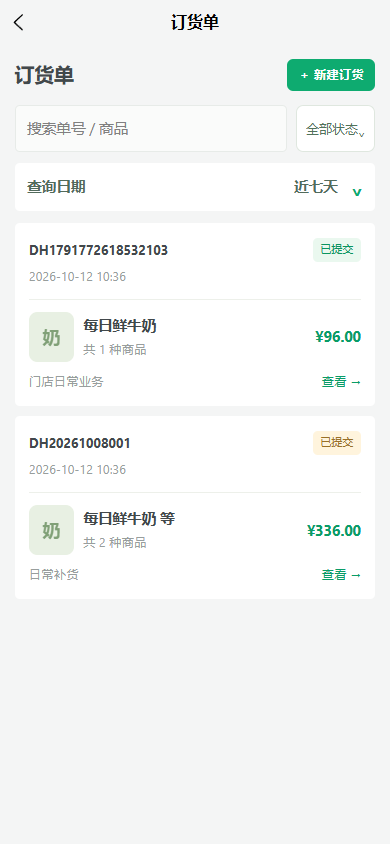
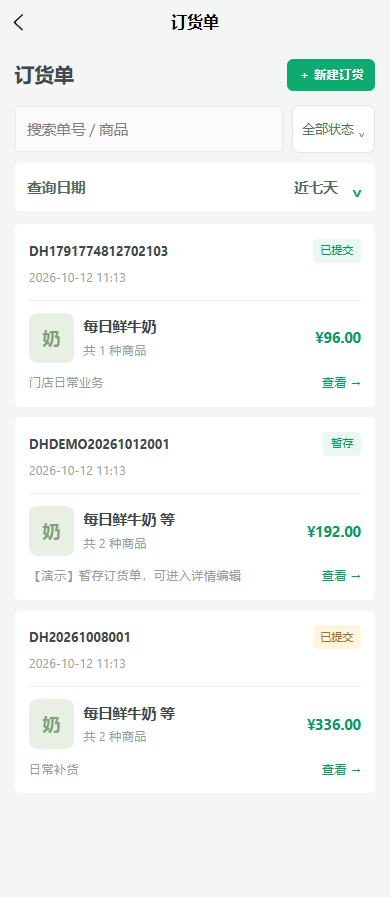
fix: make status filter clickable and seed an editable demo order

diff --git a/dist/build/mp-weixin/core/mock.js b/dist/build/mp-weixin/core/mock.js
@@ -1,1 +1,1 @@
-"use strict";const e=require("./validation.js"),s=require("./order-list.js"),t=e=>JSON.parse(JSON.stringify(e)),r="store001";exports.createMockTransport=function(n,i=Date.now){let a=n.get("demo-db-v1")||function(){const e=[{sku:"DD1001",name:"每日鲜牛奶",spec:"250ml × 12盒",unit:"箱",price:4800,stock:18,category:"乳品饮料",min:1,step:1,color:"mint",mark:"奶"},{sku:"DD1002",name:"原味酸奶",spec:"100g × 16杯",unit:"箱",price:3680,stock:12,category:"乳品饮料",min:1,step:1,color:"blue",mark:"酸"},{sku:"DD1003",name:"天然饮用水",spec:"550ml × 24瓶",unit:"箱",price:2400,stock:32,category:"乳品饮料",min:2,step:2,color:"blue",mark:"水"},{sku:"DD1004",name:"全麦吐司",spec:"400g / 袋",unit:"袋",price:890,stock:8,category:"烘焙零食",min:5,step:5,color:"sand",mark:"麦"},{sku:"DD1005",name:"海盐苏打饼干",spec:"200g / 盒",unit:"盒",price:650,stock:24,category:"烘焙零食",min:1,step:1,color:"sand",mark:"饼"},{sku:"DD1006",name:"柔韧抽纸",spec:"3层100抽 × 6包",unit:"提",price:1290,stock:16,category:"日用百货",min:1,step:1,color:"rose",mark:"纸"}],s=(s,t,r)=>({...e[s],quantity:t,...void 0!==r?{received:r,damaged:0}:{}}),t=(new Date).toISOString();return{seq:100,sessions:{},failures:0,lockedUntil:0,idempotency:{},products:e,orderTemplates:[{id:"TPL-DAILY",name:"日常补货模板",description:"门店常用商品，适合日常综合补货",storeIds:["S001"],skus:["DD1001","DD1002","DD1003","DD1004","DD1005","DD1006"]},{id:"TPL-DRINK",name:"乳品饮料模板",description:"牛奶、酸奶及饮用水专项订货",storeIds:["S001"],skus:["DD1001","DD1002","DD1003"]},{id:"TPL-SNACK",name:"烘焙零食模板",description:"面包与零食集中补货",storeIds:["S001"],skus:["DD1004","DD1005"]}],orders:[{id:"DH20261008001",status:"SUBMITTED",storeId:"S001",version:1,createdAt:t,remark:"日常补货",lines:[s(0,4),s(2,6)],history:[{text:"门店提交订货",at:t}]}],receipts:[{id:"SH20261009001",sourceId:"DH20261007001",status:"PENDING",storeId:"S001",version:1,createdAt:t,remark:"华东配送中心 · 常温配送",lines:[s(0,5),s(2,8),s(4,12)],history:[{text:"配送中心已发货",at:t}]},{id:"SH20261008002",sourceId:"DH20261006002",status:"RECEIVED",storeId:"S001",version:2,createdAt:t,remark:"已完成收货，可申请退货",lines:[s(1,6,6),s(3,20,20),s(5,10,10)],history:[{text:"门店已确认收货",at:t}]}],differences:[],returns:[]}}();a.orderTemplates||(a.orderTemplates=[{id:"TPL-DAILY",name:"日常补货模板",description:"门店常用商品，适合日常综合补货",storeIds:["S001"],skus:["DD1001","DD1002","DD1003","DD1004","DD1005","DD1006"]},{id:"TPL-DRINK",name:"乳品饮料模板",description:"牛奶、酸奶及饮用水专项订货",storeIds:["S001"],skus:["DD1001","DD1002","DD1003"]},{id:"TPL-SNACK",name:"烘焙零食模板",description:"面包与零食集中补货",storeIds:["S001"],skus:["DD1004","DD1005"]}]);for(const e of a.orders)"DRAFT"!==e.status||e.templateId||(e.templateId="TPL-DAILY",e.templateName="日常补货模板");const u=()=>n.set("demo-db-v1",t(a)),o=e=>`${e}${i()}${++a.seq}`;function d(){const e=o("demo-access-"),s=o("demo-refresh-"),n={accessToken:e,refreshToken:s,expiresAt:i()+9e5,user:{id:"U001",name:"豆豆店长",storeId:"S001",storeName:"豆豆便利 · 万象城店",account:r,role:"门店店长"}};return a.sessions[s]={...n,refreshExpiresAt:i()+6048e5},u(),t(n)}function c(e,s){e.version++,e.history.push({text:s,at:new Date(i()).toISOString()})}function l(s,t){var r;const n=null==(r=a[s])?void 0:r.find(e=>e.id===t&&"S001"===e.storeId);return e.assert(n,"单据不存在",404),n}function D(e,s,t,r={}){return{id:o(e),storeId:"S001",version:1,status:"DRAFT",createdAt:new Date(i()).toISOString(),remark:t,lines:s,history:[{text:"创建草稿",at:new Date(i()).toISOString()}],...r}}function p(e,s,t){const r=e.lines.find(e=>e.sku===s),n=a.returns.filter(s=>s.sourceId===e.id&&s.id!==t&&!["CANCELLED","REJECTED","DRAFT"].includes(s.status)).flatMap(e=>e.lines).filter(e=>e.sku===s).reduce((e,s)=>e+s.quantity,0);return((null==r?void 0:r.received)||0)-n}function m(r,n,u){const[,o,d,m]=r.split("/"),f=s=>{const t=a.orderTemplates.find(e=>e.id===s);return e.assert(t,"订货模板不存在",404),e.assert(t.storeIds.includes("S001"),"当前门店不可使用此模板",403),t};if("GET"===n){if("order-templates"===o){const s=e=>({id:e.id,name:e.name,description:e.description,productCount:a.products.filter(s=>e.skus.includes(s.sku)).length});if(!d)return a.orderTemplates.filter(e=>e.storeIds.includes("S001")).map(s);const t=f(d);return"products"===m?a.products.filter(e=>t.skus.includes(e.sku)):(e.assert(!m,"接口不存在",404),s(t))}if("products"===o)return a.products;if("dashboard"===o)return{pending:a.receipts.filter(e=>"PENDING"===e.status).length,differences:a.differences.filter(e=>"OPEN"===e.status).length,orders:a.orders.filter(e=>["SUBMITTED","APPROVED"].includes(e.status)).length,returns:a.returns.filter(e=>!["COMPLETED","CANCELLED","REJECTED"].includes(e.status)).length};if(e.assert(["orders","receipts","differences","returns"].includes(o),"接口不存在",404),!d){const e=a[o].filter(e=>"S001"===e.storeId);return s.filterOrderDocuments(e,u,o).slice().reverse()}const r=t(l(o,d));return"receipts"===o&&"RECEIVED"===r.status&&r.lines.forEach(e=>{e.returnable=p(r,e.sku)}),r}if(e.assert("POST"===n,"不支持的请求方法",405),!d&&"orders"===o){e.assert("string"==typeof u.templateId&&u.templateId,"请选择订货模板");const s=f(u.templateId),t=void 0===u.arrivalDate?"":e.arrivalDateInput(u.arrivalDate,e.localDate(new Date(i())));e.linesInput(u.lines),e.note(u.remark||"");const r=D("DH",u.lines.map(t=>{const r=a.products.find(e=>e.sku===t.sku);return e.assert(r,"商品不存在"),e.assert(s.skus.includes(r.sku),"商品不属于所选订货模板"),e.assert(t.quantity>=r.min&&t.quantity%r.step===0,`${r.name}须按${r.step}${r.unit}订购，至少${r.min}${r.unit}`),{...r,quantity:t.quantity}}),u.remark||"",{templateId:s.id,templateName:s.name,arrivalDate:t});return a.orders.push(r),r}if(!d&&"returns"===o){e.linesInput(u.lines),e.note(u.remark,!0);const s=l("receipts",u.sourceId);e.assert("RECEIVED"===s.status,"仅已收货单可申请退货");const t=D("TH",u.lines.map(t=>{const r=s.lines.find(e=>e.sku===t.sku);return e.assert(r,"商品不属于来源单"),e.assert(t.quantity<=p(s,t.sku),`${r.name}超出可退数量`),{...r,quantity:t.quantity}}),u.remark,{sourceId:s.id});return a.returns.push(t),t}e.assert(["orders","receipts","differences","returns"].includes(o),"接口不存在",404);const k=l(o,d);if(e.assert(u.version===k.version,"单据已更新，请重新加载后操作",409),"orders"===o&&"update"===m){e.assert("DRAFT"===k.status,"已提交单据不可编辑",409),e.assert(u.templateId===k.templateId,"编辑时不可更换订货模板");const s=a.orderTemplates.find(e=>e.id===k.templateId&&e.storeIds.includes("S001"));e.assert(s,"订货模板已失效，请联系业务管理员"),e.linesInput(u.lines),e.note(u.remark||"");const t=e.arrivalDateInput(u.arrivalDate,e.localDate(new Date(i()))),r=u.lines.map(t=>{const r=a.products.find(e=>e.sku===t.sku);return e.assert(r&&s.skus.includes(r.sku),"商品不属于所选订货模板"),e.assert(t.quantity>=r.min&&t.quantity%r.step===0,`${r.name}须按${r.step}${r.unit}订购，至少${r.min}${r.unit}`),{...r,quantity:t.quantity}});return k.lines=r,k.remark=u.remark||"",k.arrivalDate=t,c(k,"修改暂存订货单"),k}if("cancel"===m&&["orders","returns"].includes(o))return e.assert(("orders"===o?["DRAFT"]:["DRAFT","SUBMITTED"]).includes(k.status),"当前状态不可取消",409),k.status="CANCELLED",c(k,"门店取消单据"),k;if("submit"===m&&["orders","returns"].includes(o)){if(e.assert("DRAFT"===k.status,"仅草稿可提交",409),"returns"===o){const s=l("receipts",k.sourceId);k.lines.forEach(t=>e.assert(t.quantity<=p(s,t.sku,k.id),`${t.name}可退数量不足`))}return k.status="SUBMITTED",c(k,"门店提交，等待CMP审核"),k}if("receipts"===o&&"receive"===m){e.assert("PENDING"===k.status,"该单已收货，不可重复确认",409),e.assert(Array.isArray(u.lines)&&u.lines.length===k.lines.length&&new Set(u.lines.map(e=>e.sku)).size===k.lines.length,"请核对全部商品");const s=k.lines.map(s=>{const t=u.lines.find(e=>e.sku===s.sku);e.assert(t,"收货商品不匹配");const r=e.quantity(t.received,"合格数量",!0),n=e.quantity(t.damaged,"破损数量",!0);return e.assert(r+n<=s.quantity,`${s.name}实收超过发货数量；请联系配送中心处理超收`),{...s,received:r,damaged:n,shortage:s.quantity-r-n}}),t=s.filter(e=>e.damaged||e.shortage);return t.length&&e.note(u.remark,!0),k.lines=s,k.status="RECEIVED",c(k,"确认收货，合格数量入账"),t.length&&a.differences.push(D("CY",t,u.remark,{status:"OPEN",sourceId:k.id})),k}if("differences"===o&&"resolve"===m)return e.assert("OPEN"===k.status,"差异已核对",409),e.note(u.remark,!0),k.status="RESOLVED",k.resolution=u.remark,c(k,`门店记录核对意见：${u.remark}（演示，不调整库存）`),k;if("returns"===o&&"ship"===m)return e.assert("APPROVED"===k.status,"审批通过后才可退货出库",409),e.note(u.remark,!0),k.status="SHIPPED",k.shipping=u.remark,c(k,`退货出库：${u.remark}`),k;if("demo-approve"===m&&["orders","returns"].includes(o))return e.assert("SUBMITTED"===k.status,"当前单据不在待审核状态",409),k.status="APPROVED",c(k,"【演示】CMP审核通过"),"orders"===o&&a.receipts.push(D("SH",t(k.lines),"【演示】配送中心已发货",{status:"PENDING",sourceId:k.id})),k;if("demo-reject"===m&&"returns"===o)return e.assert("SUBMITTED"===k.status,"当前状态不可驳回",409),k.status="REJECTED",c(k,"【演示】CMP驳回：请核实退货原因后重新申请"),k;if("demo-complete"===m&&"returns"===o)return e.assert("SHIPPED"===k.status,"请先退货出库",409),k.status="COMPLETED",c(k,"【演示】配送中心确认退货接收"),k;throw new e.BusinessError("不支持的操作",404)}return async({path:s,method:n="GET",data:o={},headers:c={}})=>{if("/auth/login"===s){if(e.loginInput(o),e.assert(i()>=a.lockedUntil,"尝试次数过多，请15分钟后重试",429),o.account!==r||"Doudou123"!==o.password)throw a.failures++,a.failures>=5&&(a.lockedUntil=i()+9e5,a.failures=0),u(),new e.BusinessError("账号或密码错误",401);return a.failures=0,d()}if("/auth/refresh"===s){const s=a.sessions[o.refreshToken];return e.assert(s&&s.refreshExpiresAt>i(),"登录已失效，请重新登录",401),delete a.sessions[o.refreshToken],d()}if("/auth/logout"===s)return delete a.sessions[o.refreshToken],u(),{success:!0};if(function(s){var t;const r=null==(t=s.Authorization)?void 0:t.replace("Bearer ",""),n=Object.values(a.sessions).find(e=>e.accessToken===r);e.assert(n&&n.expiresAt>i(),"登录已过期",401),e.assert(s["X-Store-Id"]===n.user.storeId,"无权访问此门店",403)}(c),"GET"===n)return t(m(s,n,o));const l=c["Idempotency-Key"];e.assert("string"==typeof l&&l.length>=8,"缺少幂等流水号");const D=JSON.stringify({path:s,data:o});if(a.idempotency[l])return e.assert(a.idempotency[l].fingerprint===D,"幂等流水号与请求不匹配",409),t(a.idempotency[l].result);const p=t(a);try{const e=t(m(s,n,o));return a.idempotency[l]={fingerprint:D,result:e},u(),e}catch(f){throw a=p,f}}};
+"use strict";const e=require("./validation.js"),t=require("./order-list.js"),s=e=>JSON.parse(JSON.stringify(e)),r="store001",n="DHDEMO20261012001";function i(t,s=Date.now()){const r=new Date(s).toISOString(),i=new Date(s);return i.setDate(i.getDate()+1),{id:n,status:"DRAFT",storeId:"S001",version:1,createdAt:r,templateId:"TPL-DAILY",templateName:"日常补货模板",arrivalDate:e.localDate(i),remark:"【演示】暂存订货单，可进入详情编辑",lines:[{...t.find(e=>"DD1001"===e.sku),quantity:2},{...t.find(e=>"DD1003"===e.sku),quantity:4}],history:[{text:"【演示】创建暂存单",at:r}]}}exports.createMockTransport=function(a,o=Date.now){var u;let d=a.get("demo-db-v1")||function(){const e=[{sku:"DD1001",name:"每日鲜牛奶",spec:"250ml × 12盒",unit:"箱",price:4800,stock:18,category:"乳品饮料",min:1,step:1,color:"mint",mark:"奶"},{sku:"DD1002",name:"原味酸奶",spec:"100g × 16杯",unit:"箱",price:3680,stock:12,category:"乳品饮料",min:1,step:1,color:"blue",mark:"酸"},{sku:"DD1003",name:"天然饮用水",spec:"550ml × 24瓶",unit:"箱",price:2400,stock:32,category:"乳品饮料",min:2,step:2,color:"blue",mark:"水"},{sku:"DD1004",name:"全麦吐司",spec:"400g / 袋",unit:"袋",price:890,stock:8,category:"烘焙零食",min:5,step:5,color:"sand",mark:"麦"},{sku:"DD1005",name:"海盐苏打饼干",spec:"200g / 盒",unit:"盒",price:650,stock:24,category:"烘焙零食",min:1,step:1,color:"sand",mark:"饼"},{sku:"DD1006",name:"柔韧抽纸",spec:"3层100抽 × 6包",unit:"提",price:1290,stock:16,category:"日用百货",min:1,step:1,color:"rose",mark:"纸"}],t=(t,s,r)=>({...e[t],quantity:s,...void 0!==r?{received:r,damaged:0}:{}}),s=(new Date).toISOString();return{seq:100,sessions:{},failures:0,lockedUntil:0,idempotency:{},products:e,orderTemplates:[{id:"TPL-DAILY",name:"日常补货模板",description:"门店常用商品，适合日常综合补货",storeIds:["S001"],skus:["DD1001","DD1002","DD1003","DD1004","DD1005","DD1006"]},{id:"TPL-DRINK",name:"乳品饮料模板",description:"牛奶、酸奶及饮用水专项订货",storeIds:["S001"],skus:["DD1001","DD1002","DD1003"]},{id:"TPL-SNACK",name:"烘焙零食模板",description:"面包与零食集中补货",storeIds:["S001"],skus:["DD1004","DD1005"]}],demoSeeds:{savedOrderV1:!0},orders:[{id:"DH20261008001",status:"SUBMITTED",storeId:"S001",version:1,createdAt:s,remark:"日常补货",lines:[t(0,4),t(2,6)],history:[{text:"门店提交订货",at:s}]},i(e)],receipts:[{id:"SH20261009001",sourceId:"DH20261007001",status:"PENDING",storeId:"S001",version:1,createdAt:s,remark:"华东配送中心 · 常温配送",lines:[t(0,5),t(2,8),t(4,12)],history:[{text:"配送中心已发货",at:s}]},{id:"SH20261008002",sourceId:"DH20261006002",status:"RECEIVED",storeId:"S001",version:2,createdAt:s,remark:"已完成收货，可申请退货",lines:[t(1,6,6),t(3,20,20),t(5,10,10)],history:[{text:"门店已确认收货",at:s}]}],differences:[],returns:[]}}();d.orderTemplates||(d.orderTemplates=[{id:"TPL-DAILY",name:"日常补货模板",description:"门店常用商品，适合日常综合补货",storeIds:["S001"],skus:["DD1001","DD1002","DD1003","DD1004","DD1005","DD1006"]},{id:"TPL-DRINK",name:"乳品饮料模板",description:"牛奶、酸奶及饮用水专项订货",storeIds:["S001"],skus:["DD1001","DD1002","DD1003"]},{id:"TPL-SNACK",name:"烘焙零食模板",description:"面包与零食集中补货",storeIds:["S001"],skus:["DD1004","DD1005"]}]);for(const e of d.orders)"DRAFT"!==e.status||e.templateId||(e.templateId="TPL-DAILY",e.templateName="日常补货模板");(null==(u=d.demoSeeds)?void 0:u.savedOrderV1)||(d.orders.some(e=>e.id===n)||d.orders.push(i(d.products,o())),d.demoSeeds={...d.demoSeeds,savedOrderV1:!0},a.set("demo-db-v1",s(d)));const c=()=>a.set("demo-db-v1",s(d)),l=e=>`${e}${o()}${++d.seq}`;function D(){const e=l("demo-access-"),t=l("demo-refresh-"),n={accessToken:e,refreshToken:t,expiresAt:o()+9e5,user:{id:"U001",name:"豆豆店长",storeId:"S001",storeName:"豆豆便利 · 万象城店",account:r,role:"门店店长"}};return d.sessions[t]={...n,refreshExpiresAt:o()+6048e5},c(),s(n)}function p(e,t){e.version++,e.history.push({text:t,at:new Date(o()).toISOString()})}function m(t,s){var r;const n=null==(r=d[t])?void 0:r.find(e=>e.id===s&&"S001"===e.storeId);return e.assert(n,"单据不存在",404),n}function f(e,t,s,r={}){return{id:l(e),storeId:"S001",version:1,status:"DRAFT",createdAt:new Date(o()).toISOString(),remark:s,lines:t,history:[{text:"创建草稿",at:new Date(o()).toISOString()}],...r}}function k(e,t,s){const r=e.lines.find(e=>e.sku===t),n=d.returns.filter(t=>t.sourceId===e.id&&t.id!==s&&!["CANCELLED","REJECTED","DRAFT"].includes(t.status)).flatMap(e=>e.lines).filter(e=>e.sku===t).reduce((e,t)=>e+t.quantity,0);return((null==r?void 0:r.received)||0)-n}function I(r,n,i){const[,a,u,c]=r.split("/"),l=t=>{const s=d.orderTemplates.find(e=>e.id===t);return e.assert(s,"订货模板不存在",404),e.assert(s.storeIds.includes("S001"),"当前门店不可使用此模板",403),s};if("GET"===n){if("order-templates"===a){const t=e=>({id:e.id,name:e.name,description:e.description,productCount:d.products.filter(t=>e.skus.includes(t.sku)).length});if(!u)return d.orderTemplates.filter(e=>e.storeIds.includes("S001")).map(t);const s=l(u);return"products"===c?d.products.filter(e=>s.skus.includes(e.sku)):(e.assert(!c,"接口不存在",404),t(s))}if("products"===a)return d.products;if("dashboard"===a)return{pending:d.receipts.filter(e=>"PENDING"===e.status).length,differences:d.differences.filter(e=>"OPEN"===e.status).length,orders:d.orders.filter(e=>["SUBMITTED","APPROVED"].includes(e.status)).length,returns:d.returns.filter(e=>!["COMPLETED","CANCELLED","REJECTED"].includes(e.status)).length};if(e.assert(["orders","receipts","differences","returns"].includes(a),"接口不存在",404),!u){const e=d[a].filter(e=>"S001"===e.storeId);return t.filterOrderDocuments(e,i,a).slice().reverse()}const r=s(m(a,u));return"receipts"===a&&"RECEIVED"===r.status&&r.lines.forEach(e=>{e.returnable=k(r,e.sku)}),r}if(e.assert("POST"===n,"不支持的请求方法",405),!u&&"orders"===a){e.assert("string"==typeof i.templateId&&i.templateId,"请选择订货模板");const t=l(i.templateId),s=void 0===i.arrivalDate?"":e.arrivalDateInput(i.arrivalDate,e.localDate(new Date(o())));e.linesInput(i.lines),e.note(i.remark||"");const r=f("DH",i.lines.map(s=>{const r=d.products.find(e=>e.sku===s.sku);return e.assert(r,"商品不存在"),e.assert(t.skus.includes(r.sku),"商品不属于所选订货模板"),e.assert(s.quantity>=r.min&&s.quantity%r.step===0,`${r.name}须按${r.step}${r.unit}订购，至少${r.min}${r.unit}`),{...r,quantity:s.quantity}}),i.remark||"",{templateId:t.id,templateName:t.name,arrivalDate:s});return d.orders.push(r),r}if(!u&&"returns"===a){e.linesInput(i.lines),e.note(i.remark,!0);const t=m("receipts",i.sourceId);e.assert("RECEIVED"===t.status,"仅已收货单可申请退货");const s=f("TH",i.lines.map(s=>{const r=t.lines.find(e=>e.sku===s.sku);return e.assert(r,"商品不属于来源单"),e.assert(s.quantity<=k(t,s.sku),`${r.name}超出可退数量`),{...r,quantity:s.quantity}}),i.remark,{sourceId:t.id});return d.returns.push(s),s}e.assert(["orders","receipts","differences","returns"].includes(a),"接口不存在",404);const D=m(a,u);if(e.assert(i.version===D.version,"单据已更新，请重新加载后操作",409),"orders"===a&&"update"===c){e.assert("DRAFT"===D.status,"已提交单据不可编辑",409),e.assert(i.templateId===D.templateId,"编辑时不可更换订货模板");const t=d.orderTemplates.find(e=>e.id===D.templateId&&e.storeIds.includes("S001"));e.assert(t,"订货模板已失效，请联系业务管理员"),e.linesInput(i.lines),e.note(i.remark||"");const s=e.arrivalDateInput(i.arrivalDate,e.localDate(new Date(o()))),r=i.lines.map(s=>{const r=d.products.find(e=>e.sku===s.sku);return e.assert(r&&t.skus.includes(r.sku),"商品不属于所选订货模板"),e.assert(s.quantity>=r.min&&s.quantity%r.step===0,`${r.name}须按${r.step}${r.unit}订购，至少${r.min}${r.unit}`),{...r,quantity:s.quantity}});return D.lines=r,D.remark=i.remark||"",D.arrivalDate=s,p(D,"修改暂存订货单"),D}if("cancel"===c&&["orders","returns"].includes(a))return e.assert(("orders"===a?["DRAFT"]:["DRAFT","SUBMITTED"]).includes(D.status),"当前状态不可取消",409),D.status="CANCELLED",p(D,"门店取消单据"),D;if("submit"===c&&["orders","returns"].includes(a)){if(e.assert("DRAFT"===D.status,"仅草稿可提交",409),"returns"===a){const t=m("receipts",D.sourceId);D.lines.forEach(s=>e.assert(s.quantity<=k(t,s.sku,D.id),`${s.name}可退数量不足`))}return D.status="SUBMITTED",p(D,"门店提交，等待CMP审核"),D}if("receipts"===a&&"receive"===c){e.assert("PENDING"===D.status,"该单已收货，不可重复确认",409),e.assert(Array.isArray(i.lines)&&i.lines.length===D.lines.length&&new Set(i.lines.map(e=>e.sku)).size===D.lines.length,"请核对全部商品");const t=D.lines.map(t=>{const s=i.lines.find(e=>e.sku===t.sku);e.assert(s,"收货商品不匹配");const r=e.quantity(s.received,"合格数量",!0),n=e.quantity(s.damaged,"破损数量",!0);return e.assert(r+n<=t.quantity,`${t.name}实收超过发货数量；请联系配送中心处理超收`),{...t,received:r,damaged:n,shortage:t.quantity-r-n}}),s=t.filter(e=>e.damaged||e.shortage);return s.length&&e.note(i.remark,!0),D.lines=t,D.status="RECEIVED",p(D,"确认收货，合格数量入账"),s.length&&d.differences.push(f("CY",s,i.remark,{status:"OPEN",sourceId:D.id})),D}if("differences"===a&&"resolve"===c)return e.assert("OPEN"===D.status,"差异已核对",409),e.note(i.remark,!0),D.status="RESOLVED",D.resolution=i.remark,p(D,`门店记录核对意见：${i.remark}（演示，不调整库存）`),D;if("returns"===a&&"ship"===c)return e.assert("APPROVED"===D.status,"审批通过后才可退货出库",409),e.note(i.remark,!0),D.status="SHIPPED",D.shipping=i.remark,p(D,`退货出库：${i.remark}`),D;if("demo-approve"===c&&["orders","returns"].includes(a))return e.assert("SUBMITTED"===D.status,"当前单据不在待审核状态",409),D.status="APPROVED",p(D,"【演示】CMP审核通过"),"orders"===a&&d.receipts.push(f("SH",s(D.lines),"【演示】配送中心已发货",{status:"PENDING",sourceId:D.id})),D;if("demo-reject"===c&&"returns"===a)return e.assert("SUBMITTED"===D.status,"当前状态不可驳回",409),D.status="REJECTED",p(D,"【演示】CMP驳回：请核实退货原因后重新申请"),D;if("demo-complete"===c&&"returns"===a)return e.assert("SHIPPED"===D.status,"请先退货出库",409),D.status="COMPLETED",p(D,"【演示】配送中心确认退货接收"),D;throw new e.BusinessError("不支持的操作",404)}return async({path:t,method:n="GET",data:i={},headers:a={}})=>{if("/auth/login"===t){if(e.loginInput(i),e.assert(o()>=d.lockedUntil,"尝试次数过多，请15分钟后重试",429),i.account!==r||"Doudou123"!==i.password)throw d.failures++,d.failures>=5&&(d.lockedUntil=o()+9e5,d.failures=0),c(),new e.BusinessError("账号或密码错误",401);return d.failures=0,D()}if("/auth/refresh"===t){const t=d.sessions[i.refreshToken];return e.assert(t&&t.refreshExpiresAt>o(),"登录已失效，请重新登录",401),delete d.sessions[i.refreshToken],D()}if("/auth/logout"===t)return delete d.sessions[i.refreshToken],c(),{success:!0};if(function(t){var s;const r=null==(s=t.Authorization)?void 0:s.replace("Bearer ",""),n=Object.values(d.sessions).find(e=>e.accessToken===r);e.assert(n&&n.expiresAt>o(),"登录已过期",401),e.assert(t["X-Store-Id"]===n.user.storeId,"无权访问此门店",403)}(a),"GET"===n)return s(I(t,n,i));const u=a["Idempotency-Key"];e.assert("string"==typeof u&&u.length>=8,"缺少幂等流水号");const l=JSON.stringify({path:t,data:i});if(d.idempotency[u])return e.assert(d.idempotency[u].fingerprint===l,"幂等流水号与请求不匹配",409),s(d.idempotency[u].result);const p=s(d);try{const e=s(I(t,n,i));return d.idempotency[u]={fingerprint:l,result:e},c(),e}catch(m){throw d=p,m}}};

diff --git a/dist/build/mp-weixin/pages/documents/index.js b/dist/build/mp-weixin/pages/documents/index.js
@@ -1,1 +1,1 @@
-"use strict";const e=require("../../common/vendor.js"),a=require("../../services/api.js"),u=require("../../core/validation.js"),l=require("../../core/order-list.js");Math||t();const t=()=>"../../components/ProductMark.js",n={__name:"index",setup(t){const n=e.ref(2),r=e.ref("orders"),v=e.ref([]),o=e.ref(!1),i=e.ref(""),s=e.ref(""),d=e.ref("ALL"),c=e.ref(10);let f=0;const m=e.computed(()=>({orders:["ALL","DRAFT","SUBMITTED"],receipts:["ALL","PENDING","RECEIVED"],differences:["ALL","OPEN","RESOLVED"],returns:["ALL","DRAFT","SUBMITTED","APPROVED","SHIPPED","COMPLETED","REJECTED","CANCELLED"]}[r.value])),E=e.computed(()=>m.value.map(e=>"ALL"===e?"全部状态":u.documentLabel(r.value,e))),g=e.computed(()=>m.value.indexOf(d.value));function p(e){d.value=m.value[Number(e.detail.value)],c.value=10,h()}const L=e.computed(()=>v.value),D=e.computed(()=>L.value.slice(0,c.value)),T=e=>e.lines.reduce((e,a)=>e+a.price*a.quantity,0);async function h(){if(clearTimeout(P),!a.guard())return;const u=++f;o.value=!0,i.value="",v.value=[],c.value=10;try{const e=await a.api.get(`/${r.value}`,{status:d.value,...l.orderDateRange(n.value),search:s.value.trim()});u===f&&(v.value=e)}catch(t){u===f&&(i.value=t.message)}finally{u===f&&(o.value=!1),e.index.stopPullDownRefresh()}}let P;function A(e){n.value=Number(e.detail.value),h()}return e.watch(s,()=>{++f,v.value=[],o.value=!0,clearTimeout(P),P=setTimeout(h,300)}),e.onBeforeUnmount(()=>{++f,clearTimeout(P)}),e.onLoad(u=>{a.kinds[u.kind]&&(r.value=u.kind),e.index.setNavigationBarTitle({title:a.kinds[r.value]})}),e.onShow(h),e.onPullDownRefresh(h),(t,v)=>e.e({a:e.t(e.unref(a.kinds)[r.value]),b:"orders"===r.value},"orders"===r.value?{c:e.o(u=>e.unref(a.go)("/pages/create/index"),"61")}:{},{d:s.value,e:e.o(e=>s.value=e.detail.value,"ee"),f:e.t(E.value[g.value]),g:E.value,h:g.value,i:e.o(p,"55"),j:e.t(e.unref(l.dateRanges)[n.value]),k:e.unref(l.dateRanges),l:n.value,m:e.o(A,"c1"),n:"returns"===r.value},(r.value,{}),{o:i.value},i.value?{p:e.t(i.value),q:e.o(h,"90")}:{},{r:o.value},(o.value,{}),{s:e.f(D.value,(l,t,n)=>{var v;return{a:e.t(l.id),b:e.t(e.unref(u.documentLabel)(r.value,l.status)),c:e.n({pending:["PENDING","OPEN","SUBMITTED"].includes(l.status),closed:["CANCELLED","REJECTED"].includes(l.status)}),d:e.t(e.unref(a.dateText)(l.createdAt)),e:"3bd5921f-0-"+n,f:e.p({product:l.lines[0]}),g:e.t(null==(v=l.lines[0])?void 0:v.name),h:e.t(l.lines.length>1?" 等":""),i:e.t(l.lines.length),j:e.t(e.unref(u.money)(T(l))),k:e.t(l.remark||"门店日常业务"),l:l.id,m:e.o(u=>e.unref(a.go)(`/pages/detail/index?kind=${r.value}&id=${l.id}`),l.id)}}),t:!o.value&&!i.value&&!L.value.length},(o.value||i.value||L.value.length,{}),{v:L.value.length>c.value},L.value.length>c.value?{w:e.o(e=>c.value+=10,"38")}:{})}},r=e._export_sfc(n,[["__scopeId","data-v-3bd5921f"]]);wx.createPage(r);
+"use strict";const e=require("../../common/vendor.js"),a=require("../../services/api.js"),u=require("../../core/validation.js"),l=require("../../core/order-list.js");Math||t();const t=()=>"../../components/ProductMark.js",n={__name:"index",setup(t){const n=e.ref(2),r=e.ref("orders"),v=e.ref([]),i=e.ref(!1),s=e.ref(""),o=e.ref(""),d=e.ref("ALL"),c=e.ref(10);let f=0;const m=e.computed(()=>({orders:["ALL","DRAFT","SUBMITTED"],receipts:["ALL","PENDING","RECEIVED"],differences:["ALL","OPEN","RESOLVED"],returns:["ALL","DRAFT","SUBMITTED","APPROVED","SHIPPED","COMPLETED","REJECTED","CANCELLED"]}[r.value])),E=e.computed(()=>m.value.map(e=>"ALL"===e?"全部状态":u.documentLabel(r.value,e))),p=e.computed(()=>m.value.indexOf(d.value));function L(){e.index.showActionSheet({itemList:E.value,success:e=>{return a={detail:{value:e.tapIndex}},d.value=m.value[Number(a.detail.value)],c.value=10,void T();var a}})}const g=e.computed(()=>v.value),D=e.computed(()=>g.value.slice(0,c.value)),h=e=>e.lines.reduce((e,a)=>e+a.price*a.quantity,0);async function T(){if(clearTimeout(A),!a.guard())return;const u=++f;i.value=!0,s.value="",v.value=[],c.value=10;try{const e=await a.api.get(`/${r.value}`,{status:d.value,...l.orderDateRange(n.value),search:o.value.trim()});u===f&&(v.value=e)}catch(t){u===f&&(s.value=t.message)}finally{u===f&&(i.value=!1),e.index.stopPullDownRefresh()}}let A;function P(e){n.value=Number(e.detail.value),T()}return e.watch(o,()=>{++f,v.value=[],i.value=!0,clearTimeout(A),A=setTimeout(T,300)}),e.onBeforeUnmount(()=>{++f,clearTimeout(A)}),e.onLoad(u=>{a.kinds[u.kind]&&(r.value=u.kind),e.index.setNavigationBarTitle({title:a.kinds[r.value]})}),e.onShow(T),e.onPullDownRefresh(T),(t,v)=>e.e({a:e.t(e.unref(a.kinds)[r.value]),b:"orders"===r.value},"orders"===r.value?{c:e.o(u=>e.unref(a.go)("/pages/create/index"),"61")}:{},{d:o.value,e:e.o(e=>o.value=e.detail.value,"ee"),f:e.t(E.value[p.value]),g:e.o(L,"5c"),h:e.t(e.unref(l.dateRanges)[n.value]),i:e.unref(l.dateRanges),j:n.value,k:e.o(P,"db"),l:"returns"===r.value},(r.value,{}),{m:s.value},s.value?{n:e.t(s.value),o:e.o(T,"59")}:{},{p:i.value},(i.value,{}),{q:e.f(D.value,(l,t,n)=>{var v;return{a:e.t(l.id),b:e.t(e.unref(u.documentLabel)(r.value,l.status)),c:e.n({pending:["PENDING","OPEN","SUBMITTED"].includes(l.status),closed:["CANCELLED","REJECTED"].includes(l.status)}),d:e.t(e.unref(a.dateText)(l.createdAt)),e:"a3e91c3a-0-"+n,f:e.p({product:l.lines[0]}),g:e.t(null==(v=l.lines[0])?void 0:v.name),h:e.t(l.lines.length>1?" 等":""),i:e.t(l.lines.length),j:e.t(e.unref(u.money)(h(l))),k:e.t(l.remark||"门店日常业务"),l:l.id,m:e.o(u=>e.unref(a.go)(`/pages/detail/index?kind=${r.value}&id=${l.id}`),l.id)}}),r:!i.value&&!s.value&&!g.value.length},(i.value||s.value||g.value.length,{}),{s:g.value.length>c.value},g.value.length>c.value?{t:e.o(e=>c.value+=10,"8b")}:{})}},r=e._export_sfc(n,[["__scopeId","data-v-a3e91c3a"]]);wx.createPage(r);

diff --git a/src/pages/documents/index.vue b/src/pages/documents/index.vue
@@ -1,5 +1,5 @@
 <template><view class="page"><view class="between"><view class="title">{{ kinds[kind] }}</view><button v-if="kind === 'orders'" class="primary small" @tap="go('/pages/create/index')">＋ 新建订货</button></view>
-  <view class="list-tools"><input v-model="search" class="input grow" placeholder="搜索单号 / 商品"/><picker :range="filterLabels" :value="filterIndex" @change="selectStatus"><view class="status-picker">{{ filterLabels[filterIndex] }}⌄</view></picker></view>
+  <view class="list-tools"><input v-model="search" class="input grow" placeholder="搜索单号 / 商品"/><button class="status-picker" aria-label="选择单据状态" @tap="openStatus">{{filterLabels[filterIndex]}} <text>⌄</text></button></view>
   <picker class="date-query" :range="dateRanges" :value="rangeIndex" @change="selectRange"><view class="date-query-row"><text>查询日期</text><view>{{dateRanges[rangeIndex]}} <text class="chevron">⌄</text></view></view></picker>
   <view v-if="kind === 'returns'" class="demo-banner">新建退货：进入“已收货”单据，从来源明细申请退货。</view>
   <view v-if="error" class="error" @tap="load">{{ error }} · 点击重试</view><view v-if="loading" class="empty">正在查询…</view>
@@ -18,6 +18,7 @@ const kind=ref('orders'), docs=ref([]), loading=ref(false), error=ref(''), searc
 let loadId = 0
 const filters=computed(()=>({orders:['ALL','DRAFT','SUBMITTED'],receipts:['ALL','PENDING','RECEIVED'],differences:['ALL','OPEN','RESOLVED'],returns:['ALL','DRAFT','SUBMITTED','APPROVED','SHIPPED','COMPLETED','REJECTED','CANCELLED']}[kind.value]))
 const filterLabels=computed(()=>filters.value.map(s=>s==='ALL'?'全部状态':documentLabel(kind.value,s))),filterIndex=computed(()=>filters.value.indexOf(status.value))
+function openStatus(){uni.showActionSheet({itemList:filterLabels.value,success:result=>selectStatus({detail:{value:result.tapIndex}})})}
 function selectStatus(event){status.value=filters.value[Number(event.detail.value)];limit.value=10;load()}
 const filtered=computed(()=>docs.value),visible=computed(()=>filtered.value.slice(0,limit.value))
 const total=doc=>doc.lines.reduce((sum,x)=>sum+x.price*x.quantity,0)
@@ -28,4 +29,4 @@ onBeforeUnmount(()=>{++loadId;clearTimeout(timer)})
 function selectRange(event){rangeIndex.value=Number(event.detail.value);load()}
 onLoad(options=>{if(kinds[options.kind])kind.value=options.kind;uni.setNavigationBarTitle({title:kinds[kind.value]})});onShow(load);onPullDownRefresh(load)
 </script>
-<style scoped>.list-tools{display:flex;align-items:center;gap:16rpx;margin:28rpx 0}.list-tools .input{min-width:0}.status-picker{padding:24rpx 18rpx;border:1rpx solid #dfe7df;background:white;border-radius:14rpx;font-size:25rpx;color:#52725b;white-space:nowrap}.date-query{display:block;margin:-8rpx 0 24rpx}.date-query-row{display:flex;align-items:center;justify-content:space-between;padding:20rpx 24rpx;background:white;border-radius:9rpx;min-height:48px;font-size:28rpx;font-weight:600;color:#526b5c}.date-query-row .chevron{margin-left:18rpx;color:#0eab70}.doc-no{font-size:25rpx;font-weight:650;word-break:break-all}</style>
+<style scoped>.list-tools{display:flex;align-items:center;gap:16rpx;margin:28rpx 0}.list-tools .input{min-width:0}.status-picker{flex-shrink:0;min-height:48px;min-width:150rpx;display:flex;align-items:center;justify-content:center;gap:8rpx;font-weight:400;padding:20rpx 18rpx;border:1rpx solid #dfe7df;background:white;border-radius:14rpx;font-size:25rpx;color:#52725b;white-space:nowrap}.date-query{display:block;margin:-8rpx 0 24rpx}.date-query-row{display:flex;align-items:center;justify-content:space-between;padding:20rpx 24rpx;background:white;border-radius:9rpx;min-height:48px;font-size:28rpx;font-weight:600;color:#526b5c}.date-query-row .chevron{margin-left:18rpx;color:#0eab70}.doc-no{font-size:25rpx;font-weight:650;word-break:break-all}</style>

diff --git a/src/core/mock.js b/src/core/mock.js
@@ -3,6 +3,11 @@ import { filterOrderDocuments } from './order-list.js'
 const copy = value => JSON.parse(JSON.stringify(value))
 export const DEMO_ACCOUNT = 'store001'
 export const DEMO_PASSWORD = 'Doudou123'
+const DEMO_DRAFT_ID='DHDEMO20261012001'
+function demoDraft(products, time=Date.now()) {
+  const stamp=new Date(time).toISOString(),arrival=new Date(time);arrival.setDate(arrival.getDate()+1)
+  return {id:DEMO_DRAFT_ID,status:'DRAFT',storeId:'S001',version:1,createdAt:stamp,templateId:'TPL-DAILY',templateName:'日常补货模板',arrivalDate:localDate(arrival),remark:'【演示】暂存订货单，可进入详情编辑',lines:[{...products.find(p=>p.sku==='DD1001'),quantity:2},{...products.find(p=>p.sku==='DD1003'),quantity:4}],history:[{text:'【演示】创建暂存单',at:stamp}]}
+}
 const demoTemplates = () => [
   {id:'TPL-DAILY',name:'日常补货模板',description:'门店常用商品，适合日常综合补货',storeIds:['S001'],skus:['DD1001','DD1002','DD1003','DD1004','DD1005','DD1006']},
   {id:'TPL-DRINK',name:'乳品饮料模板',description:'牛奶、酸奶及饮用水专项订货',storeIds:['S001'],skus:['DD1001','DD1002','DD1003']},
@@ -19,8 +24,8 @@ export function initialState() {
   ]
   const line = (i, n, received) => ({ ...products[i], quantity: n, ...(received !== undefined ? { received, damaged: 0 } : {}) })
   const stamp = new Date().toISOString()
-  return { seq: 100, sessions: {}, failures: 0, lockedUntil: 0, idempotency: {}, products, orderTemplates:demoTemplates(),
-    orders: [{ id: 'DH20261008001', status: 'SUBMITTED', storeId: 'S001', version: 1, createdAt: stamp, remark: '日常补货', lines: [line(0, 4), line(2, 6)], history: [{ text: '门店提交订货', at: stamp }] }],
+  return { seq: 100, sessions: {}, failures: 0, lockedUntil: 0, idempotency: {}, products, orderTemplates:demoTemplates(),demoSeeds:{savedOrderV1:true},
+    orders: [{ id: 'DH20261008001', status: 'SUBMITTED', storeId: 'S001', version: 1, createdAt: stamp, remark: '日常补货', lines: [line(0, 4), line(2, 6)], history: [{ text: '门店提交订货', at: stamp }] },demoDraft(products)],
     receipts: [
       { id: 'SH20261009001', sourceId: 'DH20261007001', status: 'PENDING', storeId: 'S001', version: 1, createdAt: stamp, remark: '华东配送中心 · 常温配送', lines: [line(0, 5), line(2, 8), line(4, 12)], history: [{ text: '配送中心已发货', at: stamp }] },
       { id: 'SH20261008002', sourceId: 'DH20261006002', status: 'RECEIVED', storeId: 'S001', version: 2, createdAt: stamp, remark: '已完成收货，可申请退货', lines: [line(1, 6, 6), line(3, 20, 20), line(5, 10, 10)], history: [{ text: '门店已确认收货', at: stamp }] }
@@ -32,6 +37,11 @@ export function createMockTransport(storage, now = Date.now) {
   // Preserve documents when upgrading previously saved demo data.
   if (!db.orderTemplates) db.orderTemplates=demoTemplates()
   for(const order of db.orders)if(order.status==='DRAFT'&&!order.templateId){order.templateId='TPL-DAILY';order.templateName='日常补货模板'}
+  if(!db.demoSeeds?.savedOrderV1){
+    if(!db.orders.some(doc=>doc.id===DEMO_DRAFT_ID))db.orders.push(demoDraft(db.products,now()))
+    db.demoSeeds={...db.demoSeeds,savedOrderV1:true}
+    storage.set('demo-db-v1',copy(db))
+  }
   const save = () => storage.set('demo-db-v1', copy(db))
   const id = prefix => `${prefix}${now()}${++db.seq}`
   function issue() {

diff --git a/tests/business.test.js b/tests/business.test.js
@@ -21,3 +21,5 @@ test('订货到货日期保存，并拒绝过去或不存在的日期',async()=>
 
 test('暂存订货更新幂等、版本控制及提交后拒绝修改',async()=>{const {post,get}=await setup();let doc=await post('/orders',{templateId:'TPL-DAILY',lines:[{sku:'DD1001',quantity:1}]});const payload={version:doc.version,templateId:doc.templateId,arrivalDate:'2099-01-15',lines:[{sku:'DD1001',quantity:3}],remark:'修改补货数量'};const updated=await post(`/orders/${doc.id}/update`,payload,'edit-once-001');assert.equal(updated.id,doc.id);assert.equal(updated.version,2);assert.equal(updated.lines[0].quantity,3);assert.equal(updated.arrivalDate,'2099-01-15');assert.equal((await post(`/orders/${doc.id}/update`,payload,'edit-once-001')).version,2);await assert.rejects(()=>post(`/orders/${doc.id}/update`,payload),{status:409});doc=await post(`/orders/${doc.id}/submit`,{version:updated.version});await assert.rejects(()=>post(`/orders/${doc.id}/update`,{...payload,version:doc.version}),{status:409});await assert.rejects(()=>post(`/orders/${doc.id}/cancel`,{version:doc.version}),{status:409});assert.equal((await get(`/orders/${doc.id}`)).lines[0].quantity,3)})
 test('暂存单非法编辑原子回滚，不可换模板或破坏包装倍数',async()=>{const {post,get}=await setup();const doc=await post('/orders',{templateId:'TPL-DRINK',lines:[{sku:'DD1001',quantity:1}]});const payload={version:1,templateId:'TPL-DRINK',arrivalDate:'2099-01-15',lines:[{sku:'DD1003',quantity:3}]};await assert.rejects(()=>post(`/orders/${doc.id}/update`,payload),{status:422});await assert.rejects(()=>post(`/orders/${doc.id}/update`,{...payload,templateId:'TPL-DAILY'}),{status:422});const original=await get(`/orders/${doc.id}`);assert.equal(original.version,1);assert.equal(original.lines[0].sku,'DD1001')})
+
+test('已有演示数据补充暂存单只执行一次，提交后不会重置为暂存',async()=>{const {storage}=await setup();const db=storage.get('demo-db-v1');delete db.demoSeeds;db.orders=db.orders.filter(x=>x.id!=='DHDEMO20261012001');const oldId=db.orders[0].id;storage.set('demo-db-v1',db);let client=createClient({storage,transport:createMockTransport(storage)});let docs=await client.request('/orders');const sample=docs.find(x=>x.id==='DHDEMO20261012001');assert.equal(sample.status,'DRAFT');assert.equal(sample.templateId,'TPL-DAILY');assert.ok(docs.some(x=>x.id===oldId));await client.request(`/orders/${sample.id}/submit`,{method:'POST',data:{version:sample.version},key:'demo-draft-submit-001'});client=createClient({storage,transport:createMockTransport(storage)});docs=await client.request('/orders');assert.equal(docs.filter(x=>x.id===sample.id).length,1);assert.equal(docs.find(x=>x.id===sample.id).status,'SUBMITTED')})

diff --git a/docs/架构与接口规范.md b/docs/架构与接口规范.md
@@ -124,3 +124,9 @@ GET /{kind} 新增 status、fromDate、toDate、search 参数。日期是YYYY-MM
 POST /orders/{id}/update：version、templateId、arrivalDate、lines:[{sku,quantity}]、remark，返回原单据并递增version。只允许DRAFT，校验门店归属、版本、模板、商品范围、包装倍数及日期；更换模板拒绝，失败原子回滚，使用Idempotency-Key。已提交拒绝修改和取消，详情无编辑入口，直接打开编辑URL也会被状态校验阻止。草稿编辑输入按单号单独缓存并记录基础版本，版本不同不恢复旧输入；退出登录清除输入。若旧到货日期早于今天，需重新选择后保存。旧演示草稿无模板ID时迁移到日常模板；生产迁移需依据CMP真实来源字段。
 
 真实CMP5/BFF尚待部署，必须提供同等更新与查询接口、数据库事务和权限校验，前端隐藏按钮不能替代后台校验。
+
+## 状态点击与演示暂存样例（2026-10-12）
+
+单据状态控件改为独立按钮，通过uni.showActionSheet显示状态菜单，选项点击后按对应status重新请求API；订单菜单为全部状态/暂存/已提交。点击区域至少48px高。日期仍使用原生picker。
+
+演示单 DHDEMO20261012001：日常补货模板，鲜牛奶2箱、饮用水4箱，暂存状态，可编辑、提交。新演示库自带该单，已有库通过demoSeeds.savedOrderV1标记只补一次，保留旧单据及原单的后续修改/提交状态。创建日期按补入当天记录，到货日期初始次日；不会定期改写日期或重复生成。仅本机mock包含该示例，remote模式不注入。

diff --git a/README.md b/README.md
@@ -106,3 +106,5 @@ dist/build/mp-weixin/ 可直接导入微信开发者工具的产物
 继续用源码工程时，运行 `npm run build:mp-weixin`，随后 `npm run check:weixin`，再在工具中清缓存编译。新版构建命令自动校验日期、搜索、错误、数量及按钮绑定，并生成 build-integrity.json；不要单独复制构建中的 JS/WXML/WXSS。此检查不替代微信真机验证。
 
 订货单保留卡片列表。状态可选全部状态/暂存/已提交，默认近七天，可查询今天、昨天、本月、近三月；暂存详情可编辑商品数量、备注、到货日期并保存原单，提交后只读。
+
+状态查询点击按钮后弹出菜单。体验版新增暂存示例 DHDEMO20261012001，可选“暂存”查看、编辑；已有演示数据自动补入一次，保留原单据。
